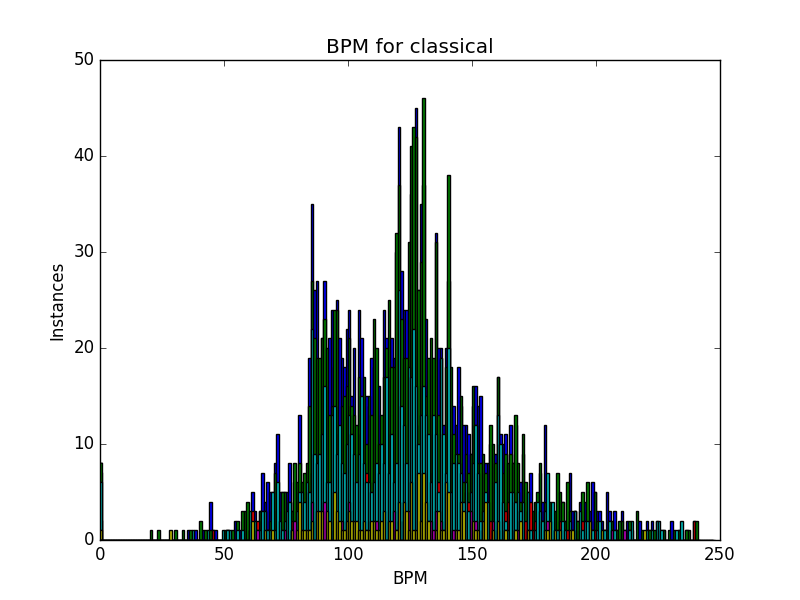
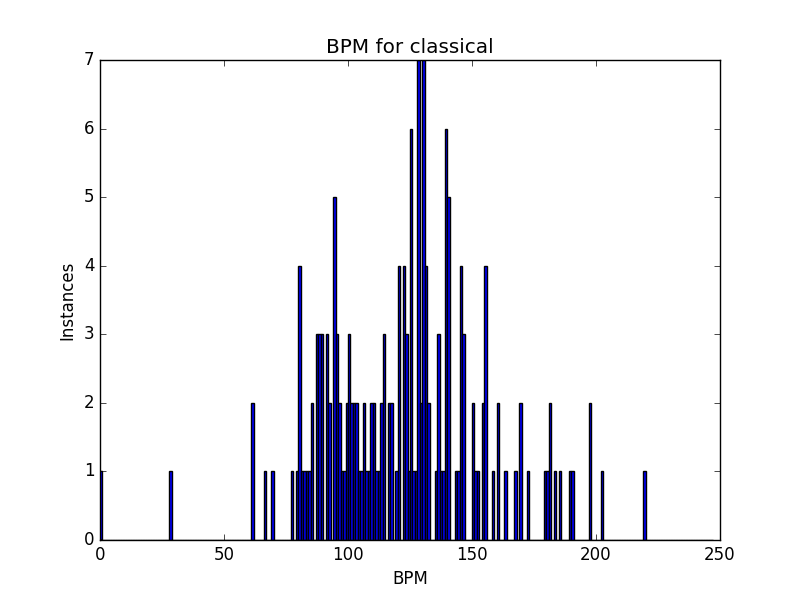
Fixed bug where all of the genre BPMS were plotting onto the same axis

diff --git a/tools/s2stats.py b/tools/s2stats.py
@@ -223,11 +223,12 @@ print('Q3 DURATION:  ', q3Duration)
 # plt.show()
 
 #BPM by Genre
-# for genre, bpm in bpm_dict.items():
-# 	bpm.sort()
-# 	BINS = list(range(0,int(bpm[-1])))
-# 	plt.hist(bpm, bins = BINS)
-# 	plt.title("BPM for " + str(genre))
-# 	plt.xlabel("BPM")
-# 	plt.ylabel("Instances")
-# 	plt.savefig('../visual/GenreBPM/' + str(genre) + "bpm.png")
+for genre, bpm in bpm_dict.items():
+	plt.figure()
+	bpm.sort()
+	BINS = list(range(0,int(bpm[-1])))
+	plt.hist(bpm, bins = BINS)
+	plt.title("BPM for " + str(genre))
+	plt.xlabel("BPM")
+	plt.ylabel("Instances")
+	plt.savefig('../visual/GenreBPM/' + str(genre) + "bpm.png")
